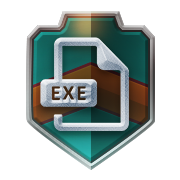
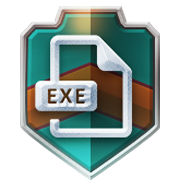
Made additional tweaks to shield images

diff --git a/resources/views/play/index.blade.php b/resources/views/play/index.blade.php
@@ -14,7 +14,7 @@
                         <div class="col">
                             <div class="vote-item p-3 p-lg-4">
                                 <h4 class="mb-1 text-center text-white text-uppercase">Launcher Client</h4>
-                                <p class="mb-2 mb-lg-3 text-muted">100kb | .exe file</p>
+                                <p class="mb-2 mb-lg-3 text-muted">100kb | .launcher file</p>
                                 <img src="{{asset('images/download-launcher.png')}}" class="game-download__icon" lazy>
                                 <a href="" file class="d-block w-100 vote-btn btn_lg mt-2 mt-lg-3">Download</a>
                             </div>
@@ -23,7 +23,7 @@
                             <div class="vote-item p-3 pt-5 p-lg-4 py-lg-5 position-relative">
                                 <div class="badge position-absolute top-0 mt-3 d-block success-notice start-0 end-0">Recommended</div>
                                 <h4 class="mb-1 text-center text-white text-uppercase">EXE Client</h4>
-                                <p class="mb-2 mb-lg-3 text-muted">100kb | .jar file</p>
+                                <p class="mb-2 mb-lg-3 text-muted">100kb | .exe file</p>
                                 <img src="{{asset('images/download-exe.png')}}" class="game-download__icon" lazy>
 
                                 <a href="" file class="d-block w-100 vote-btn btn_lg mt-2 mt-lg-3">Download</a>
